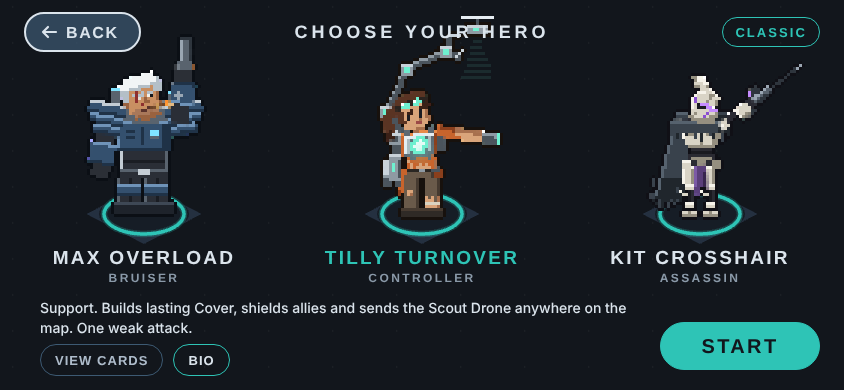
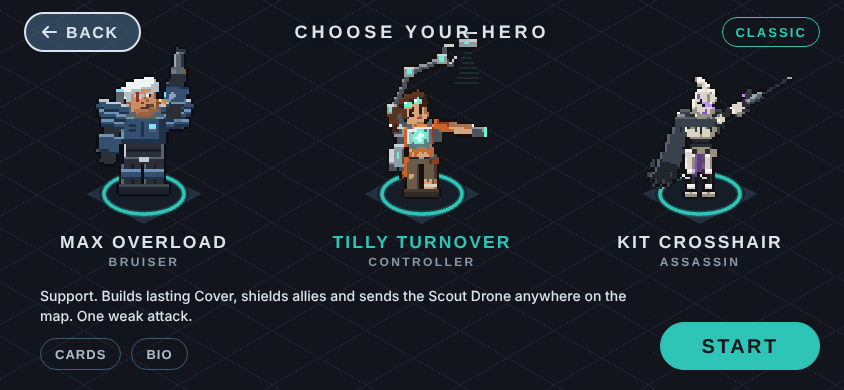
Web: Hero Select on a fixed spacing grid, Hidden label above the Assassin's head, quiet CARDS and BIO pills, drifting diffuse grid
Claude-Session: https://claude.ai/code/session_01Rn1Tt7X9tQdJ1krB9aWBpp

Changed region(s): [[0.0308, 0.0308, 0.7393, 0.9538], [0.7085, 0.2154, 0.955, 0.7385], [0.9242, 0.1538, 0.955, 0.2154]]

diff --git a/apps/web/src/hero-select.css b/apps/web/src/hero-select.css
@@ -3,17 +3,18 @@
 :root { --cyan: #7fe8ff; }
 .hero-select { position: absolute; inset: 0; overflow: hidden; background: var(--graphite); }
 .hs-stage { position: absolute; left: 50%; top: 50%; width: 844px; height: 390px; }
-/* The faint tile grid drifts diagonally, very slowly: one cell in 36 s, so the loop has no jump. */
-.hs-grid { position: absolute; inset: 0; background-image: linear-gradient(30deg, rgba(255, 255, 255, 0.055) 1px, transparent 1px), linear-gradient(150deg, rgba(255, 255, 255, 0.055) 1px, transparent 1px); background-size: 64px 36px; animation: hs-grid-drift 36s linear infinite; }
-@keyframes hs-grid-drift { from { background-position: 0 0; } to { background-position: 64px 36px; } }
-@media (prefers-reduced-motion: reduce) { .hs-grid { animation: none; } }
+.hs-grid { position: absolute; inset: 0; background: repeating-linear-gradient(30deg, transparent 0 46px, var(--panel) 46px 47px), repeating-linear-gradient(150deg, transparent 0 46px, var(--panel) 46px 47px); }
+/* A diffuse patch of isometric grid drifts from the lower right to the upper left, slowly and faintly, under the Heroes. */
+.hs-drift { position: absolute; left: 0; top: 0; width: 620px; height: 360px; pointer-events: none; opacity: 0; background-image: linear-gradient(30deg, rgba(255, 255, 255, 0.5) 1px, transparent 1px), linear-gradient(150deg, rgba(255, 255, 255, 0.5) 1px, transparent 1px); background-size: 64px 36px; -webkit-mask-image: radial-gradient(ellipse closest-side, #000 15%, transparent 100%); mask-image: radial-gradient(ellipse closest-side, #000 15%, transparent 100%); animation: hs-drift 52s linear infinite; }
+@keyframes hs-drift { 0% { transform: translate(520px, 240px); opacity: 0; } 12% { opacity: 0.16; } 88% { opacity: 0.16; } 100% { transform: translate(-300px, -210px); opacity: 0; } }
+@media (prefers-reduced-motion: reduce) { .hs-drift { display: none; } }
 .hs-canvas { position: absolute; inset: 0; pointer-events: none; }
 .hs-canvas canvas { display: block; }
 
 .hs-back { position: absolute; left: 24px; top: 12px; height: 40px; box-sizing: border-box; padding: 0 20px 0 14px; display: flex; align-items: center; gap: 8px; border: 2px solid var(--text); border-radius: 20px; background: rgba(61, 90, 115, 0.7); font: 700 16px Rajdhani, sans-serif; letter-spacing: 0.1em; color: var(--text); cursor: pointer; }
 .hs-back svg { display: block; flex: none; }
 .hs-back span { display: block; line-height: 1; padding-top: 1px; }
-.hs-title { position: absolute; left: 0; right: 0; top: 20px; height: 24px; margin: 0; text-align: center; font: 700 18px/24px Rajdhani, sans-serif; letter-spacing: 0.22em; color: var(--text); pointer-events: none; }
+.hs-title { z-index: 3; text-shadow: 0 0 8px var(--graphite); position: absolute; left: 0; right: 0; top: 20px; height: 24px; margin: 0; text-align: center; font: 700 18px/24px Rajdhani, sans-serif; letter-spacing: 0.22em; color: var(--text); pointer-events: none; }
 .hs-chip { position: absolute; right: 24px; top: 17px; height: 30px; box-sizing: border-box; padding: 0 12px; display: flex; align-items: center; border: 1.5px solid; border-radius: 15px; font: 700 13px Rajdhani, sans-serif; letter-spacing: 0.16em; }
 .hs-chip.classic { color: var(--teal); }
 .hs-chip.attack { color: var(--orange); }
@@ -21,18 +22,17 @@
 
 /* The tap area of a Hero: nothing is drawn, the Hero stands on the board background. */
 .hs-hero { position: absolute; box-sizing: border-box; padding: 0; border: 0; background: none; cursor: pointer; }
-.hs-name { position: absolute; left: 0; right: 0; top: 190px; text-align: center; font: 700 19px/24px Rajdhani, sans-serif; letter-spacing: 0.12em; color: var(--text); }
+.hs-name { position: absolute; left: 0; right: 0; top: 174px; text-align: center; font: 700 17.5px/24px Rajdhani, sans-serif; letter-spacing: 0.12em; color: var(--text); }
 .hs-hero.selected .hs-name { color: var(--teal); }
-.hs-class { position: absolute; left: 0; right: 0; top: 214px; text-align: center; font: 600 12px/16px Rajdhani, sans-serif; letter-spacing: 0.2em; color: var(--muted); }
+.hs-class { position: absolute; left: 0; right: 0; top: 198px; text-align: center; font: 600 12px/16px Rajdhani, sans-serif; letter-spacing: 0.2em; color: var(--muted); }
 
-.hs-info { position: absolute; left: 40px; top: 298px; width: 600px; box-sizing: border-box; color: var(--muted-light); }
+.hs-info { position: absolute; left: 40px; top: 286px; width: 600px; box-sizing: border-box; color: var(--muted-light); }
 .hs-info h2 { margin: 0; font: 700 17px Rajdhani, sans-serif; letter-spacing: 0.12em; color: var(--teal); }
 .hs-info p { margin: 0; font: 500 14px/20px Barlow, system-ui, sans-serif; color: var(--text); }
 .hs-info h2 + p { margin-top: 4px; }
 .hs-info.empty h2, .hs-info.empty p { color: var(--muted-light); }
-.hs-actions { position: absolute; left: 0; top: 46px; display: flex; gap: 10px; }
+.hs-actions { position: absolute; left: 0; top: 52px; display: flex; gap: 10px; }
 .hs-view-cards { display: inline-flex; align-items: center; min-height: 32px; box-sizing: border-box; padding: 0 14px; border: 1px solid var(--steel); border-radius: 16px; background: none; font: 600 13px Rajdhani, sans-serif; letter-spacing: 0.08em; color: var(--muted-light); cursor: pointer; }
-.hs-bio-button { color: var(--text); border-color: var(--teal); }
 
 .hs-start { position: absolute; right: 24px; bottom: 20px; width: 160px; height: 48px; box-sizing: border-box; display: flex; align-items: center; justify-content: center; border: 1.5px solid var(--teal); border-radius: 24px; background: var(--teal); color: var(--graphite); font: 700 20px Rajdhani, sans-serif; letter-spacing: 0.12em; cursor: pointer; }
 .hs-start:disabled { border-color: var(--steel); background: none; color: var(--muted); cursor: default; }

diff --git a/apps/web/src/HeroSelectScreen.tsx b/apps/web/src/HeroSelectScreen.tsx
@@ -1,5 +1,5 @@
-import type { HeroClass } from "game-core";
-import { Application, Container, Graphics } from "pixi.js";
+import { HeroClass } from "game-core";
+import { Application, Container, Graphics, Text } from "pixi.js";
 import { useEffect, useRef, useState } from "react";
 import { cardListTitle, cardRowName, cardRows, feetX, HERO_CLOSE_UP, HERO_NAMES, HERO_PROFILES, HERO_TASKS, MODE_LABELS, type SelectMode, SELECTABLE_HEROES } from "./hero-select";
 import { HERO_STYLE } from "./hero-style";
@@ -11,11 +11,11 @@ import "./hero-select.css";
 
 export const SCREEN = { width: 844, height: 390 };
 /** The tap area of a Hero (no box is drawn): its size, its top, the left of each, and where the feet stand inside it. */
-const AREA = { width: 240, height: 238, top: 56, lefts: [24, 302, 580], feetY: 158 };
+const AREA = { width: 240, height: 214, top: 56, lefts: [24, 302, 580], feetY: 138 };
 /** How much the figure of the board is magnified here. */
 const MAGNIFY = 2.5;
-/** Screen px per sprite px of a Hero here (a Hero is about 135 px tall). */
-const SPRITE_PX = 3;
+/** Screen px per sprite px of a Hero here (a Hero is about 143 px tall). */
+const SPRITE_PX = 2.5;
 
 export const prefersReducedMotion = (): boolean => window.matchMedia("(prefers-reduced-motion: reduce)").matches;
 
@@ -30,6 +30,8 @@ interface Stand {
   heroClass: HeroClass;
   holder: Container;
   pixel: PixelHero;
+  /** The Hidden label of the Assassin, close above its head (the sheet's own label floats too high). */
+  hiddenLabel?: Text;
   /** When it entered its current state, in page milliseconds. */
   since: number;
   state: "idle" | "ready";
@@ -48,7 +50,23 @@ function buildStand(heroClass: HeroClass, index: number): Stand {
   // The holder magnifies by MAGNIFY, so the figure itself has scale 1 and the sprites are SPRITE_PX screen px per pixel.
   const pixel = new PixelHero(heroClass, false, MAGNIFY / HERO_STYLE.figureScale, "right", { layers: ["fx_back", "figure", "fx_front"], figureScale: 1, pixelScale: SPRITE_PX / MAGNIFY });
   holder.addChild(tile(), pixel.container);
-  return { heroClass, holder, pixel, since: performance.now(), state: "idle" };
+  if (heroClass !== HeroClass.Assassin) return { heroClass, holder, pixel, since: performance.now(), state: "idle" };
+  pixel.clipFrontAbove(HIDDEN_LABEL.clipRow);
+  const hiddenLabel = new Text({ text: "HIDDEN", style: { fill: HIDDEN_LABEL.color, fontSize: 5, fontFamily: "IBM Plex Mono, monospace", fontWeight: "500", letterSpacing: 0.5 }, resolution: Math.max(2, window.devicePixelRatio) * MAGNIFY });
+  hiddenLabel.anchor.set(0.5);
+  hiddenLabel.alpha = 0;
+  pixel.container.addChild(hiddenLabel);
+  return { heroClass, holder, pixel, hiddenLabel, since: performance.now(), state: "idle" };
+}
+
+/** The Hidden label of the Assassin: the colour of the sheet's, 6 design px above the head, from the moment the Hero has gone Hidden. */
+const HIDDEN_LABEL = { color: 0xc29bff, headY: -42, gap: 7, appearsMs: 2400, fadeMs: 300, riseDesignPx: 4, clipRow: 26 };
+
+/** Fades the label in above the head and lets it settle; with reduced motion it simply stands there. */
+function showHiddenLabel(label: Text, readyMs: number, reducedMotion: boolean): void {
+  const shown = readyMs <= 0 ? 0 : reducedMotion ? 1 : Math.min(1, Math.max(0, (readyMs - HIDDEN_LABEL.appearsMs) / HIDDEN_LABEL.fadeMs));
+  label.alpha = shown;
+  label.position.set(0, HIDDEN_LABEL.headY - HIDDEN_LABEL.gap - (1 - shown) * -HIDDEN_LABEL.riseDesignPx);
 }
 
 /** Poses every Hero for this moment; a Hero that has just changed state starts that state's pose from its beginning. */
@@ -57,6 +75,7 @@ function poseStands(stands: readonly Stand[], choice: Choice, now: number, reduc
     const state = stand.heroClass === choice.hero ? "ready" : "idle";
     stand.state = state;
     stand.pixel.showSelect(state === "ready", now - stand.since, reducedMotion);
+    if (stand.hiddenLabel) showHiddenLabel(stand.hiddenLabel, state === "ready" ? now - stand.since : 0, reducedMotion);
     const index = SELECTABLE_HEROES.indexOf(stand.heroClass);
     stand.holder.position.x = AREA.lefts[index]! + feetX(stand.heroClass, state === "ready");
   }
@@ -205,6 +224,7 @@ export function HeroSelectScreen({ mode, initial, onBack, onStart }: HeroSelectS
     <section className="hero-select" aria-label="Hero Select" data-testid="hero-select">
       <div className="hs-stage" style={{ transform: `translate(-50%, -50%) scale(${scale})` }}>
         <div className="hs-grid" />
+        <div className="hs-drift" aria-hidden="true" />
         <HeroCanvas choice={choice} />
         <button type="button" className="hs-back" onClick={onBack}>
           <BackArrow />
@@ -234,9 +254,9 @@ export function HeroSelectScreen({ mode, initial, onBack, onStart }: HeroSelectS
               <p>{HERO_TASKS[hero]}</p>
               <div className="hs-actions">
                 <button type="button" className="hs-view-cards" onClick={() => setSheet("cards")}>
-                  VIEW CARDS
+                  CARDS
                 </button>
-                <button type="button" className="hs-view-cards hs-bio-button" onClick={() => setSheet("bio")}>
+                <button type="button" className="hs-view-cards" onClick={() => setSheet("bio")}>
                   BIO
                 </button>
               </div>

diff --git a/apps/web/src/pixel-heroes.ts b/apps/web/src/pixel-heroes.ts
@@ -1,5 +1,5 @@
 import { HeroClass } from "game-core";
-import { Assets, Container, Sprite, type Spritesheet, type Texture } from "pixi.js";
+import { Assets, Container, Graphics, Sprite, type Spritesheet, type Texture } from "pixi.js";
 import { baseFacing, type Facing } from "./facing";
 import { type ClipName, clipOf } from "./hero-clips";
 import { groundMarks, type HeroPose } from "./hero-figure";
@@ -180,6 +180,16 @@ export class PixelHero {
     this.sprites = { fx_back: make(), figure: make(), fx_front: make() };
     this.body.addChild(this.sprites.fx_back, this.sprites.figure, this.sprites.fx_front);
     this.container.addChild(shadow, teamRing, ringFlash, this.body);
+  }
+
+  /**
+   * Hides what the front effects layer draws above sprite row `spriteY` (0 at the top of the 136 x 104 frame). The sheet of the
+   * Assassin floats its Hidden label far above the head; the Hero Select draws its own label close above it instead.
+   */
+  clipFrontAbove(spriteY: number): void {
+    const keep = new Graphics().rect(-PIXEL_FRAME.width, spriteY - PIXEL_FRAME.feetY, PIXEL_FRAME.width * 2, PIXEL_FRAME.height).fill(0xffffff);
+    this.body.addChild(keep);
+    this.sprites.fx_front.mask = keep;
   }
 
   /** Shows a clip of a sheet by name at a frame; the ring flash, the ring fade and the shake of that frame go with it. */

diff --git a/apps/web/e2e/hero-select.e2e.ts b/apps/web/e2e/hero-select.e2e.ts
@@ -66,10 +66,10 @@ test("Back leads to the start screen", async ({ page }) => {
   await expect(page.getByTestId("start-screen")).toBeVisible();
 });
 
-test("View cards lists the Deck of the selected Hero and closes", async ({ page }) => {
+test("CARDS lists the Deck of the selected Hero and closes", async ({ page }) => {
   await openHeroSelect(page);
   await page.getByTestId("hero-controller").click();
-  await page.getByRole("button", { name: "VIEW CARDS" }).click();
+  await page.getByRole("button", { name: "CARDS" }).click();
   const list = page.getByTestId("card-list");
   await expect(list).toContainText("CONTROLLER: 10 CARDS");
   await expect(list).toContainText("Scout Drone x2");

diff --git a/apps/web/src/text-legibility.test.ts b/apps/web/src/text-legibility.test.ts
@@ -127,6 +127,7 @@ const OPACITY_EXEMPT: Record<string, string> = {
   ".hand.collapsed li": "hidden while a target is picked",
   ".hand li": "per-card dimming while another card is in use (otherOpacity); that card is not the focus",
   ".card-back": "card back graphic without text",
+  ".hs-drift": "the faint drifting grid of the Hero Select; a background without text",
   ".burn-card": "animation graphic without text",
   ".burn-flame": "animation graphic without text",
   ".burn-ember": "animation graphic without text",

diff --git a/apps/web/scripts/screenshots.ts b/apps/web/scripts/screenshots.ts
@@ -255,7 +255,7 @@ async function playHeroSelect(browser: Browser): Promise<void> {
   await page.getByTestId("hero-assassin").click();
   await page.waitForTimeout(3300); // invisible, the label floats up
   await shoot("04-assassin-ready.png");
-  await page.getByRole("button", { name: "VIEW CARDS" }).click();
+  await page.getByRole("button", { name: "CARDS" }).click();
   await page.getByTestId("card-list").waitFor();
   await shoot("05-cards.png");
   await page.getByRole("button", { name: "Close" }).click();

diff --git a/docs/design/hero-select/README.md b/docs/design/hero-select/README.md
@@ -4,14 +4,16 @@ The look of the Hero Select screen and of the poses its three Heroes strike. It 
 
 ## Update: Hero Names, bigger Heroes, the BIO sheet (design canvas page "Hero Select: names and bios", variant A)
 
-Chosen by the product owner. **Where this section differs from the table below, this section wins.** The pictures are `overview/names-controller.png` and `overview/names-bio.png` (screenshots of the game at 844 x 390).
+Chosen by the product owner. **Where this section differs from the table below, this section wins.** The pictures are `overview/names-controller.png`, `overview/names-assassin.png` and `overview/names-bio.png` (screenshots of the game at 844 x 390).
 
-- **Heroes:** the sprites are drawn at 3 screen px per sprite px (before: 2); the feet of every Hero stand at y 214 (area top 56, feet 158 inside it); the tap area of a Hero is 240 x 238.
-- **Under each Hero:** its **Hero Name** (Rajdhani 700 19 px, letter spacing 0.12 em, white; teal when selected) at y 246, and its class (Rajdhani 600 12 px, letter spacing 0.2 em, muted) at y 270. No bar under the name.
-- **The band below:** only the role text (Barlow 500 14 px, line height 20, at (40, 298), 600 wide), and **under it** the two quiet pills VIEW CARDS and BIO at (40, 344), 10 px apart, 32 high. BIO has a teal border. With no Hero selected the band shows TAP A HERO and its text and no buttons. START stays at the right.
+- **Heroes:** the sprites are drawn at 2.5 screen px per sprite px (before: 2); the feet of every Hero stand at y 194 (area top 56, feet 138 inside it); the tap area of a Hero is 240 x 214.
+- **Under each Hero:** its **Hero Name** (Rajdhani 700 17.5 px, letter spacing 0.12 em, 24 line height, white; teal when selected) at y 230, and its class (Rajdhani 600 12 px, letter spacing 0.2 em, muted) at y 254. No bar under the name.
+- **The band below:** only the role text (Barlow 500 14 px, line height 20, at (40, 286), 600 wide, two lines at most), and **under it** the two quiet pills CARDS and BIO at (40, 338), 10 px apart, 32 high, in the same style (1 px steel border). **The bottom edge of the pills is the bottom edge of START (y 370).** The gaps run 6 px (ring to name), 16 px (class to role text), 12 px (role text to pills). With no Hero selected the band shows TAP A HERO and its text and no buttons. START stays at the right.
+- **The title** (CHOOSE YOUR HERO) stands in front of the Heroes: the drone of the Controller floats behind it.
+- **HIDDEN:** the Assassin's label is drawn by the screen, 7 design px above the head (the sheet's own label floats too high and is hidden); it fades in when the Hero has gone Hidden.
 - **The BIO sheet** (a sheet like the card list: 764 x 358 at (40, 16) over the 72 % dark overlay, background `#151b23`, border 1 px `#2a3643`): no title and no divider, only the close button (40 x 40) at the top right (right 14, top 14). The close-up (216 x 216, steel border, the `portrait.png` of the pixel concept at 6 x) at (28, 62) in the sheet. Right of it (x 296, 440 wide), from y 57 and flush with the top of the close-up: the Hero Name (Rajdhani 700 32 px, 36 line height), the class in teal (700 13 px, letter spacing 0.2 em), the bio (Barlow 15 px, line height 22, 16 px below), then the line of the Hero in italic with quotation marks (14 px below).
 - **The words** are in `apps/web/src/hero-select.ts` (`HERO_PROFILES`); their source is `docs/design/world/README.md`.
-- **The background grid** is visible (lines at 5.5 % white) and drifts diagonally, one cell (64 x 36 px) in 36 s; with reduced motion it stands still.
+- **The background:** the quiet tile grid of before, and over it a diffuse patch of isometric grid (a soft elliptic mask, about 8 % white at its strongest) that drifts from the lower right to the upper left in 52 s and fades in and out; with reduced motion it is not drawn.
 
 ## Files
 
